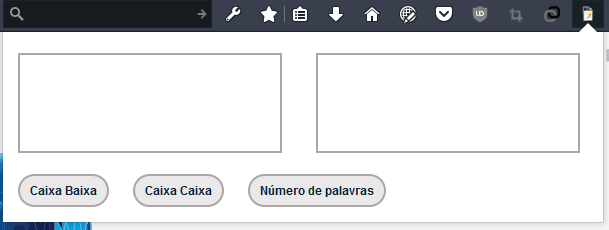
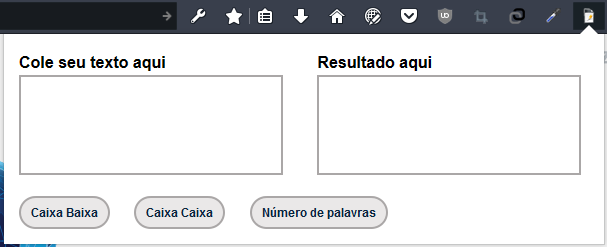
add label
add label e css

Changed region(s): [[0.0, 0.0, 1.0, 1.0], [0.771, 0.0304, 0.8007, 0.0913], [0.5338, 0.0304, 0.5634, 0.0913]]

diff --git a/conversor.html b/conversor.html
@@ -8,7 +8,7 @@
     <meta name="author" content="">
     <link rel="icon" href="favicon.ico">
 
-    <title>Addons Hack Day</title>
+    <title>Addns Hack Day</title>
 
    
    
@@ -20,13 +20,15 @@
    <section id="container-body">
       <form name="formConversor">
         <div class="colun">
-          <textarea id="valorRecebido" name="valorRecebido" placeholder="DIgite ou cole o seu texto aqui"> </textarea>
+          <label>Cole seu texto aqui</label>
+          <textarea id="valorRecebido" name="valorRecebido" value=""> </textarea>
         </div>
         <div class="colun">
-          <textarea id="valorGerado" name="valorGerado" > </textarea>
+          <label>Resultado aqui</label>
+          <textarea id="valorGerado" name="valorGerado" value=""> </textarea>
         </div>
         <input type="button" value="Caixa Baixa" id="converterCaixaBaixa">
-        <input type="button" value="Caixa Alta" id="converterCaixaAlta">
+        <input type="button" value="Caixa Caixa" id="converterCaixaAlta">
         <input type="button" id="contadoPalavras" value="Número de palavras" >
       </form> 
 

diff --git a/css.css b/css.css
@@ -30,6 +30,8 @@ footer, header, hgroup, menu, nav, section {
 }
 body {
 	line-height: 1;
+    font-family: Arial, Helvetica, sans-serif;
+
 }
 *:focus {outline:0px none transparent;}
 #container-body{
@@ -43,12 +45,18 @@ body {
     margin: 20px 2.5%;
 }
 .colun textarea{
-    width: 97%;
+    width: 100%;
     outline: none;
     resize: none;
      border:2px solid #aaa7a7;
      height: 100px;
      -moz-appearance:none;
+}
+label{
+    display: block;
+    color:#000000;
+    font-weight: bold;
+    margin-bottom: 4px;
 }
 .colun textarea:focus{outline:0px none transparent;}
 input[type=button] {
